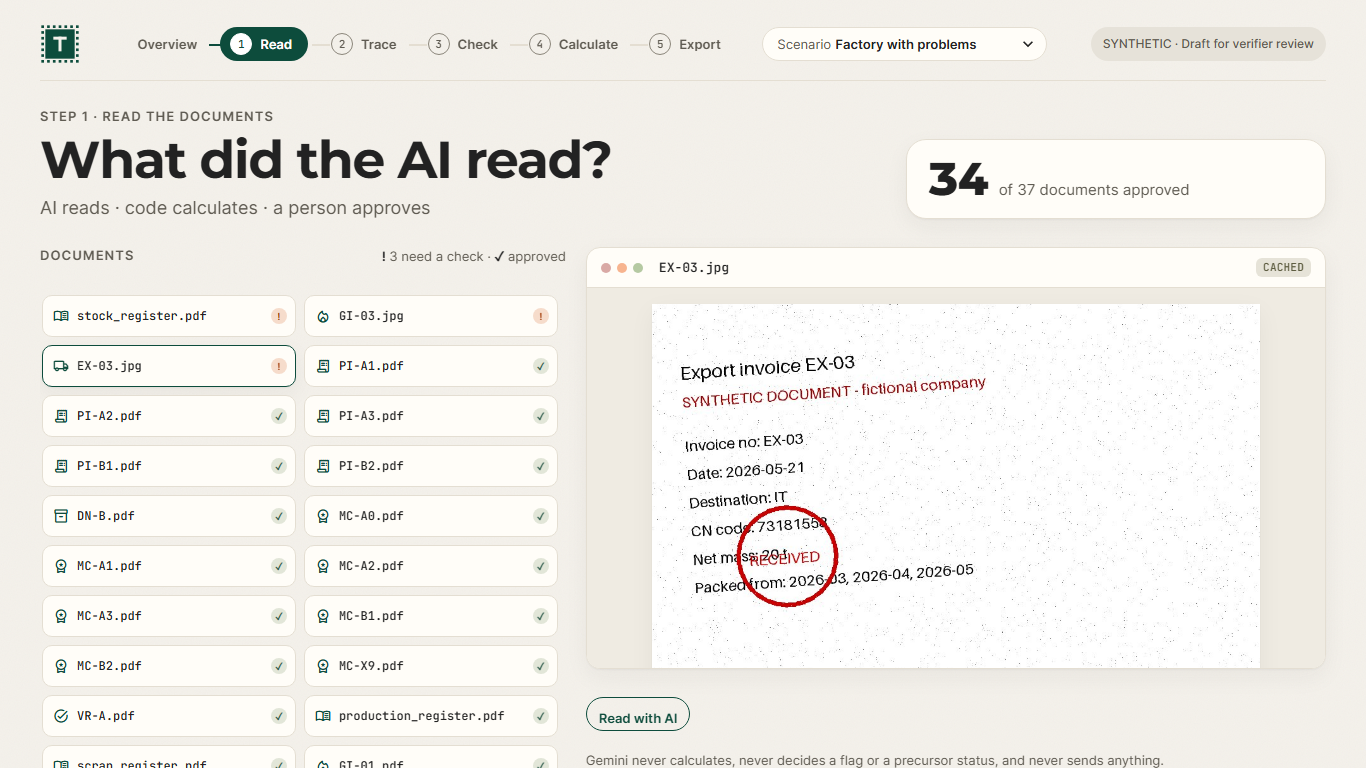
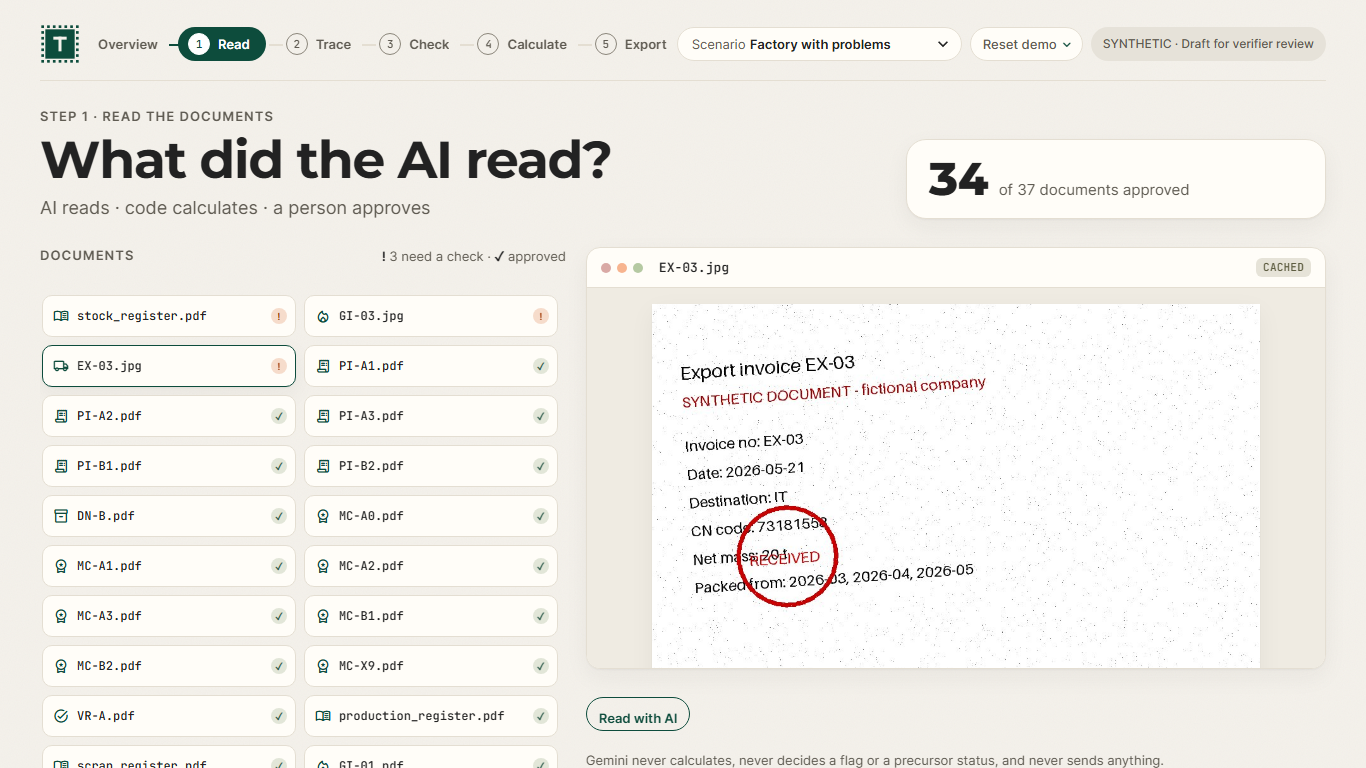
Step 14: Reset demo in top bar with Reset all, show mode on Input missing

Changed region(s): [[0.0615, 0.0312, 0.7687, 0.0938]]

diff --git a/static/style.css b/static/style.css
@@ -36,9 +36,9 @@ header[data-testid="stHeader"], [data-testid="stToolbar"], [data-testid="stDecor
 [data-testid="stHtml"] { line-height: 1.4; }
 
 /* ---- top bar ---- */
-.st-key-topbar { align-items: center; gap: 0; padding-bottom: 16px; border-bottom: 1px solid var(--line); flex-wrap: nowrap; justify-content: space-between; }
+.st-key-topbar { align-items: center; gap: 0; row-gap: 10px; padding-bottom: 16px; border-bottom: 1px solid var(--line); flex-wrap: wrap; justify-content: space-between; }
 .st-key-topbar [data-testid="stElementContainer"], .st-key-topbar [data-testid="stLayoutWrapper"] { width: auto !important; flex: none; }
-.brand { margin-right: 16px; }
+.brand { margin-right: 8px; }
 .brand img { width: 40px; height: 40px; display: block; }
 .st-key-navpath { flex-wrap: nowrap; gap: 0; align-items: center; }
 .st-key-navpath [data-testid="stElementContainer"] { width: auto !important; }
@@ -51,9 +51,9 @@ header[data-testid="stHeader"], [data-testid="stToolbar"], [data-testid="stDecor
 [class*="st-key-nav-"] button > div, [class*="st-key-nav-"] [data-testid="stMarkdownContainer"] { display: flex; align-items: center; height: 100%; margin: 0; }
 [class*="st-key-nav-"] button:hover p { color: var(--brand) !important; }
 [class*="st-key-nav-"]:not(:first-child)::before {  /* thin line between steps */
-  content: ""; position: absolute; left: -11px; top: 50%; width: 18px; height: 2px; background: var(--line);
+  content: ""; position: absolute; left: -9px; top: 50%; width: 14px; height: 2px; background: var(--line);
 }
-[class*="st-key-nav-"] { position: relative; margin-left: 15px; }
+[class*="st-key-nav-"] { position: relative; margin-left: 12px; }
 [class*="st-key-nav-"]:first-child { margin-left: 0; }
 [class*="st-key-nav-done"]:not(:first-child)::before, [class*="st-key-nav-now"]:not(:first-child)::before { background: var(--brand); }
 [class*="st-key-nav-"] button::before {
@@ -72,7 +72,7 @@ header[data-testid="stHeader"], [data-testid="stToolbar"], [data-testid="stDecor
 [class*="st-key-nav-now"] button p { color: #fff !important; font-weight: 600; }
 [class*="st-key-nav-now"] button::before { background: #fff; border-color: #fff; color: var(--brand); }
 
-.st-key-scenario { width: 244px !important; flex: none; }
+.st-key-scenario { width: 236px !important; flex: none; }
 .st-key-scenario [role="group"] {
   background: var(--sheet); border: 1px solid var(--line); border-radius: 999px; min-height: 34px; height: 34px; box-shadow: none; position: relative;
 }
@@ -81,7 +81,7 @@ header[data-testid="stHeader"], [data-testid="stToolbar"], [data-testid="stDecor
 }
 .st-key-scenario input { font: 600 13px/1 var(--body) !important; color: var(--ink); padding: 0 0 0 72px !important; height: 32px; min-height: 0; background: transparent; }
 .st-key-scenario [data-testid="stWidgetLabel"] { display: none; }
-.synth { font: 500 12px/1 var(--body); background: #E6E2D9; color: var(--ink-2); padding: 11px 12px; border-radius: 999px; white-space: nowrap; margin-left: 10px; display: block; }
+.synth { font: 500 12px/1 var(--body); background: #E6E2D9; color: var(--ink-2); padding: 11px 12px; border-radius: 999px; white-space: nowrap; margin-left: 6px; display: block; }
 
 /* ---- type ---- */
 .eyebrow { font: 600 13px/1.2 var(--body); letter-spacing: .08em; text-transform: uppercase; color: var(--ink-2); }
@@ -163,9 +163,10 @@ button[kind="secondary"] p { font: 600 13px/1 var(--body); color: var(--brand); 
 button p { margin: 0 !important; }
 .st-key-foot { justify-content: space-between; align-items: center; margin-top: 24px; flex-wrap: nowrap; }
 .st-key-foot [data-testid="stElementContainer"] { width: auto !important; }
-.st-key-foot [data-testid="stPopover"] { width: auto; }
-.st-key-foot [data-testid="stPopover"] button { border-color: var(--line); }
-.st-key-foot [data-testid="stPopover"] button p { color: var(--ink-2); font-weight: 500; }
+[class*="st-key-resetmenu"] { width: auto !important; flex: none; margin-left: 6px; }
+[class*="st-key-resetmenu"] button { display: inline-flex; align-items: center; border-color: var(--line); background: var(--sheet); min-height: 34px; height: 34px; padding-top: 0; padding-bottom: 0; }
+[class*="st-key-resetmenu"] button > div, [class*="st-key-resetmenu"] [data-testid="stMarkdownContainer"] { display: flex; align-items: center; }
+[class*="st-key-resetmenu"] button p { color: var(--ink-2); font-weight: 500; white-space: nowrap; }
 .footline { font: 400 12px/1.3 var(--body); color: var(--ink-2); }
 
 /* ---- trace ---- */

diff --git a/app.py b/app.py
@@ -26,6 +26,7 @@ BANNER = "SYNTHETIC DATA · Draft prepared for verifier review · Illustrative, 
 DESIGN_LINE = "AI reads · code calculates · a person approves"
 
 PAGES = ["Overview", "1 Read", "2 Trace", "3 Check", "4 Calculate", "5 Export"]
+WIDGET_PREFIXES = ("default", "edit", "note", "fix", "fixv", "draft")
 FULL_LOT_CARDS = 3   # more lots than this in a verdict column become one-line rows
 SCENARIOS = {"clean": "Clean factory", "problem": "Factory with problems", "trader": "Trader supply chain"}
 
@@ -61,15 +62,35 @@ def scroll_up() -> None:
         st.html(ui.scroll_script(turn), unsafe_allow_javascript=True)
 
 
-def reset_demo(folder: str) -> None:
-    """Clear this scenario's approvals, accepted flags and typed defaults, for a fresh rehearsal."""
+def clear_scenario(folder: str) -> None:
+    """Drop everything a rehearsal leaves behind in one scenario, saved or in this session."""
     data.reset_approvals(folder)
     data.reset_flag_notes(folder)
+    data.reset_live_choices(folder)
     st.session_state.setdefault("defaults", {})[folder] = {}
     for key in list(st.session_state):
-        if key.startswith((f"default-{folder}-", f"edit-{folder}-", f"note-{folder}-", f"fixv-{folder}-")):
+        if key == f"doc-{folder}" or key.startswith(tuple(f"{name}-{folder}-" for name in WIDGET_PREFIXES)):
             del st.session_state[key]
-    st.session_state.pop(f"doc-{folder}", None)
+    st.session_state.pop("ai_message", None)
+    st.session_state.pop("last_approved", None)
+
+
+def fresh_start() -> None:
+    """Back to the first screen, with the reset menu closed."""
+    st.session_state["resets"] = st.session_state.get("resets", 0) + 1
+    go(PAGES[0])
+
+
+def reset_demo(folder: str) -> None:
+    clear_scenario(folder)
+    fresh_start()
+
+
+def reset_all() -> None:
+    for folder in data.FOLDERS:
+        clear_scenario(folder)
+    st.session_state["scenario"] = data.FOLDERS[0]
+    fresh_start()
 
 
 def load(folder: str) -> dict:
@@ -186,11 +207,7 @@ def page_overview(folder: str) -> None:
             st.html(ui.path_head(complete))
             st.button("Start: 1 Read the documents →", type="primary", key="start", on_click=go, args=("1 Read",))
         st.html(ui.path_track(stages))
-    with st.container(horizontal=True, key="foot"):
-        st.html(ui.footline(BANNER))
-        with st.popover("Reset demo"):
-            st.markdown(f"Clear approvals, typed defaults and accepted flags for **{SCENARIOS[folder]}**?")
-            st.button("Yes, reset", key="reset-yes", on_click=reset_demo, args=(folder,))
+    foot()
 
 
 @lru_cache(maxsize=64)
@@ -529,7 +546,7 @@ def page_calculation(folder: str) -> None:
             st.html(ui.result_card(out["result"].value, mode_line(folder) + typed,
                                    ui.table(["Step", "Value", "Unit"], [[a, ui.num(b), c] for a, b, c in out["steps"]], mono=(1,))))
         else:
-            st.html(ui.missing_card(missing_items(out)))
+            st.html(ui.missing_card(missing_items(out), mode_line(folder)))
     st.html(ui.lot_values(ui.table(["Heat", "Consumed (t)", "Value (t CO2/t)", "Basis", "Mode"], [[
         v["heat"], ui.num(v["consumed_t"]) if v["consumed_t"] is not None else "—",
         ui.num(v["see"]) if v["see"] is not None else "input missing",
@@ -573,6 +590,14 @@ RENDER = {
 }
 
 
+def reset_menu(folder: str) -> None:
+    """In the top bar, so it is always in the same place. Choosing an option is the confirmation."""
+    with st.popover("Reset demo", key=f"resetmenu-{st.session_state.get('resets', 0)}"):
+        st.markdown("Clear approvals, typed defaults and accepted flags, and go back to the start?")
+        st.button(f"Yes, reset {SCENARIOS[folder]}", key="reset-one", on_click=reset_demo, args=(folder,))
+        st.button("Yes, reset all scenarios", key="reset-all", on_click=reset_all)
+
+
 def top_bar() -> str:
     """Logo, numbered path and scenario. Returns the chosen folder."""
     query = st.query_params
@@ -589,6 +614,7 @@ def top_bar() -> str:
                 st.button(page.split()[-1], key=f"nav-{state}-{i}", on_click=go, args=(page,))
         folder = st.selectbox("Scenario", list(SCENARIOS), format_func=SCENARIOS.get, key="scenario",
                               label_visibility="collapsed")
+        reset_menu(folder)
         st.html(ui.synth_pill())
     return folder
 

diff --git a/tests/test_app_smoke.py b/tests/test_app_smoke.py
@@ -67,22 +67,53 @@ def test_every_page_ends_with_its_button(app, folder):
     for name, page in mod.RENDER.items():
         st.calls.clear()
         page(folder)
-        labels = [args[0] for call, args in st.calls if call == "button" and args[0] != "Yes, reset"]
+        labels = [args[0] for call, args in st.calls if call == "button"]
         assert labels[-1].endswith("→"), name
+
+
+def fake_saved_state(mod, monkeypatch):
+    cleared = []
+    for name in ("reset_approvals", "reset_flag_notes", "reset_live_choices"):
+        monkeypatch.setattr(mod.data, name, lambda f, name=name: cleared.append((name, f)))
+    mod.st.session_state.update({
+        "defaults": {"clean": {"A0": 1.0}, "trader": {"A0": 2.0}}, "default-clean-A0": 1.0, "default-trader-A0": 2.0,
+        "note-clean-X": "n", "edit-clean-Y": "1", "doc-clean": "PI-A1.pdf", "ai_message": "m",
+        "page": "4 Calculate", "scenario": "trader"})
+    return cleared
 
 
 def test_reset_demo_clears_this_scenario_only(app, monkeypatch):
     mod, _ = app
-    cleared = []
-    monkeypatch.setattr(mod.data, "reset_approvals", lambda f: cleared.append(("approvals", f)))
-    monkeypatch.setattr(mod.data, "reset_flag_notes", lambda f: cleared.append(("notes", f)))
-    state = mod.st.session_state
-    state.update({"defaults": {"clean": {"A0": 1.0}, "trader": {"A0": 2.0}}, "default-clean-A0": 1.0,
-                  "default-trader-A0": 2.0, "note-clean-X": "n", "edit-clean-Y": "1"})
+    cleared = fake_saved_state(mod, monkeypatch)
     mod.reset_demo("clean")
-    assert cleared == [("approvals", "clean"), ("notes", "clean")]
+    state = mod.st.session_state
+    assert {f for _, f in cleared} == {"clean"} and len(cleared) == 3
     assert state["defaults"] == {"clean": {}, "trader": {"A0": 2.0}}
-    assert set(state) == {"defaults", "default-trader-A0"}
+    assert "default-trader-A0" in state
+    assert not {"default-clean-A0", "note-clean-X", "edit-clean-Y", "doc-clean", "ai_message"} & set(state)
+    assert state["page"] == "Overview" and state["scenario"] == "trader"
+
+
+def test_reset_all_clears_every_scenario(app, monkeypatch):
+    mod, _ = app
+    cleared = fake_saved_state(mod, monkeypatch)
+    mod.reset_all()
+    state = mod.st.session_state
+    assert {f for _, f in cleared} == set(mod.data.FOLDERS) and len(cleared) == 9
+    assert state["defaults"] == {"clean": {}, "problem": {}, "trader": {}}
+    assert "default-trader-A0" not in state
+    assert state["page"] == "Overview" and state["scenario"] == "clean"
+
+
+def test_reset_menu_is_on_every_screen(app):
+    mod, st = app
+    for page in mod.PAGES:
+        mod.st.session_state["page"] = page
+        for folder in mod.data.FOLDERS:
+            mod.st.session_state["scenario"] = folder
+            st.calls.clear()
+            mod.top_bar()
+            assert ("popover", ("Reset demo",)) in st.calls
 
 
 def test_going_to_a_page_asks_to_scroll_up(app):

diff --git a/ui.py b/ui.py
@@ -250,11 +250,11 @@ def result_card(value, mode: str, steps: str) -> str:
             f'<div class="small" style="margin:8px 0 16px">Extraction mode: {escape(mode)}</div>{steps}</div>')
 
 
-def missing_card(items: list) -> str:
+def missing_card(items: list, mode: str) -> str:
     rows = "".join(f"<li>{escape(i)}</li>" for i in items)
     return (f'<div class="card missing"><div class="cardtitle">Input missing</div>'
             f'<ul class="miss">{rows}</ul><div class="small">No total until these are in. '
-            f"Illustrative, for evidence preparation.</div></div>")
+            f"Illustrative, for evidence preparation. Extraction mode: {escape(mode)}</div></div>")
 
 
 def lot_values(rows: str) -> str:

diff --git a/tracecheck/data.py b/tracecheck/data.py
@@ -160,6 +160,13 @@ def reset_flag_notes(folder: str) -> None:
         path.unlink()
 
 
+def reset_live_choices(folder: str) -> None:
+    """Back to CACHED fields. Saved LIVE readings stay in live_fields.json."""
+    path = folder_path(folder) / "live_use.json"
+    if path.exists():
+        path.unlink()
+
+
 def build_facility(fields: list, config: dict) -> dict:
     """Nested facility data from approved fields; unapproved values become None."""
     fac = {}

diff --git a/PROGRESS.md b/PROGRESS.md
@@ -30,4 +30,5 @@
   Test changed because the spec changed: test_main_shows_banner looked for st.warning, but DESIGN_PLAN.md section 6 replaces the warning box, so it now looks for the banner text in an st.html block. The stub also gained query_params.
   Fixed during the step: 1 Read crashed on a document with no approved fields (GI-03.jpg). The smoke test did not catch it, because the stub accepts an empty st.html.
 - Step 14 fixes: done 2026-10-30. Logo-only top bar, compact lot rows with Show all on 2 Trace, narrow layout below 1100 px, every screen ends with its button (1 Read could skip it after a mistyped correction). tests/test_words.py now scans ui.py and static/style.css; tests/test_app_smoke.py checks each page's last button.
-- Step 14 follow-up: done 2026-10-30. Excel sheets with nothing to list now say so ("No open issues — all checks passed"). Reset demo on Overview, with confirmation, clears approvals, typed defaults and accepted flags for the current scenario; LIVE choices stay. Every page change scrolls to the top.
+- Step 14 follow-up: done 2026-10-30. Excel sheets with nothing to list now say so ("No open issues — all checks passed"). Reset demo with confirmation added. Every page change scrolls to the top.
+- Step 14 reset and end-to-end check: done 2026-10-30. Reset demo moved to the top bar on every screen, with a Reset all scenarios option; it also clears LIVE choices and returns to Overview. Full browser check of all three scenarios with Gemini off: one failure found and fixed (trader Calculate showed no extraction mode). 116 tests pass. A single default does not give a result: all defaults and the GI-03 approval are needed, and problem stays "input missing" until the GI-08 unit is confirmed. That is RULES.md rule 9 working.

diff --git a/docs/DESIGN_NOTES.md b/docs/DESIGN_NOTES.md
@@ -18,14 +18,14 @@
 - **Verdict columns with more than 3 lots** show the rest as one-line rows, with their full cards under Show all. Rows keep a mode chip, because the plan requires the mode next to values.
 - **Below 1100 px** the step labels hide (Overview keeps its word, as it has no number), the Scenario selector and pill move to a second row, and all screen titles drop to 40 px.
 - **Export ends with a quiet "Back to Overview →"** as it has no next step. **Overview ends with the Start button** in its last tile, as in the mockup.
-- **The Scenario selector is wider** (244 px) so "Factory with problems" fits.
+- **The Scenario selector is wider** (236 px) so "Factory with problems" fits.
 - **Lot cards carry a mode chip** (CACHED / LIVE / MANUAL), which the mockup lacks but the plan's hard limits require.
 - **The "Try Factory with problems" hint is left out** of the empty Untraced column. No scenario has an untraced lot, so it would point nowhere.
 - **The full line "Draft prepared for verifier review" sits in the footer of every screen.** The top pill keeps the shorter mockup wording.
 
 ## Added after the first build
 
-- **Reset demo** sits at the bottom of Overview and asks for confirmation. It clears approvals, typed defaults and accepted flags for the current scenario only. LIVE document choices stay.
+- **Reset demo** sits in the top bar on every screen and asks for confirmation. It offers the current scenario or all scenarios, clears approvals, typed defaults, accepted flags and LIVE choices, and returns to Overview. Saved LIVE readings stay on disk.
 - **Page changes scroll to the top** through a small script in `st.html`, because Streamlit keeps the old scroll position.
 
 ## What was cut
